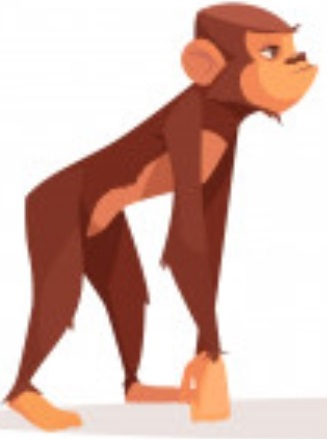
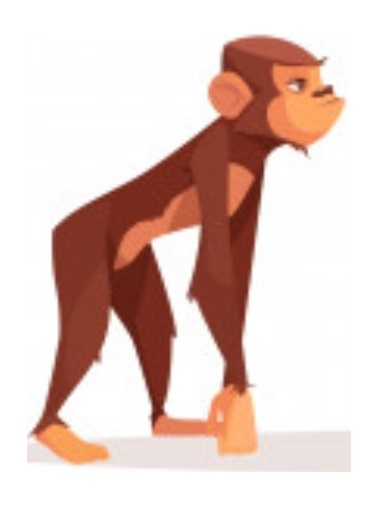
added tasks level

diff --git a/src/components/games/taskgame.js b/src/components/games/taskgame.js
@@ -43,12 +43,13 @@ export default function TaskGame(props) {
             if ('error' in response.data) {
                 console.log('onGetNewTaskUpdate error ' + response.data.error);
                 setTask('Error: ' + response.data.error);
-                setImage(url_prefix + 'error.jpg');
+                setImage(url_prefix + 'sm_error.jpg');
 
             } else if ('id' in response.data) {
-                console.log('onGetNewTaskUpdate ' + response.data.id + ', ' + response.data.level);
+                console.log('onGetNewTaskUpdate ' + response.data.id + ', ' + response.data.level + ', ' + response.data.image);
                 setTask(response.data.description);
                 setResult(response.data.result);
+                setImage(url_prefix + response.data.image);
 
                 // set answer to ? and blinking
                 setCounter(0); setFont('grey'); setAnswer('?');
@@ -57,11 +58,11 @@ export default function TaskGame(props) {
         }
 
         setLoading(false);
-
     }, [ ])
 
     const onGetNewTaskError = useCallback((error) => {
         console.log('Header.onScoresError ' + error);
+        setTask('Error: ' + error);
         setLoading(false);
     }, [ ])
 
@@ -76,15 +77,14 @@ export default function TaskGame(props) {
     useEffect(() => {
         console.log('TaskGame.useEffect -> ' + props.task.uid);
         if (props.open === true) {
-            setLoading(true);
-            getNewTask(url_prefix + 'sm_error.jpg');
+            setFloatDesk('left'); setFloatBoard('right');
+            setLoading(true); getNewTask();
         } else {
             setCounter(0); setTotal(0);
             setPassed(0); setFailed(0);
             setAnswer('?'); setResult('?');
             setFont('grey'); setAnimation('blinker 5s linear infinite');
         }
-
     }, [props.open, props.task, getNewTask]);
 
     const onAlertDialog = (status) => {
@@ -98,18 +98,21 @@ export default function TaskGame(props) {
 
     const onDigit = (number) => {
         console.log('TaskGame.onDigit ' + number);
-        if (answer === '?') {
-            setAnswer(number); setFont('black');
-            setAnimation('none');
-        } else {
-            var new_aswer = answer + number;
-            setAnswer(new_aswer);
+        // if result is ? -> some error from server and we have no task
+        if (result !== '?') {
+            if (answer === '?') {
+                setAnswer(number); setFont('black');
+                setAnimation('none');
+            } else {
+                var new_aswer = answer + number;
+                setAnswer(new_aswer);
+            }
         }
     }
 
     const onOperator = (symbol) => {
         console.log('TaskGame.onOperator ' + symbol);
-        if (symbol === 'clear' && answer !== '?') {
+        if (symbol === 'clear' && answer !== '?' && result !== '?') {
             if (answer.length === 1) {
                 setFont('grey'); setAnswer('?');
                 setAnimation('blinker 5s linear infinite');
@@ -128,9 +131,12 @@ export default function TaskGame(props) {
                     setPassed(passed + 1);
                 }
 
+                setFont('green');
+                setLoading(true);
+
                 setTimeout(() => {
                     getNewTask();
-                }, 700);
+                }, 1300);
 
             } else {
                 if (counter === 0) {
@@ -167,7 +173,7 @@ export default function TaskGame(props) {
                 <div className='taskgame_body_wrapper_left' style={{'float': float_desk}}>
                     <div className='taskgame_body_wrapper_up'>
                             <div className='taskgame_gameboard_image_wrapper'>
-                                <img src={image} alt='task image' onContextMenu={(e) => e.preventDefault()}/>
+                                <img src={image} alt='task' onContextMenu={(e) => e.preventDefault()}/>
                             </div>
                     </div>
                     <div className='taskgame_body_wrapper_down'>
@@ -188,10 +194,16 @@ export default function TaskGame(props) {
                     </div>
 
                     <div className='taskgame_body_wrapper_down' style={{alignItems: 'center'}}>
-                        <KeyBoard onDigit={onDigit} onOperator={onOperator}/>
+                        <KeyBoard onDigit={onDigit} onOperator={onOperator} plus={true} minus={true}/>
                     </div>
                 </div>
             </div>
+
+            {(props.lang !== 'ru') ? (
+                <div className='taskgame_footer_wrapper'>
+                    {taskgame[props.lang]['sorry']}
+                </div>
+            ) : (<></>)}
 
             <AlertDialog open={openAlert}
                 fullScreen={props.fullScreen}

diff --git a/src/components/translations/taskgame.js b/src/components/translations/taskgame.js
@@ -8,6 +8,7 @@ export const taskgame = {
         'answer': 'answer',
         'exit': 'exit',
         'help': 'help',
+        'sorry': 'we are sorry, we did not have enough resources and time to translate all tasks on your language. please, give us a chance to do it later',
     },
     // Russian
     'ru': {
@@ -17,6 +18,7 @@ export const taskgame = {
         'answer': 'проверить',
         'exit': 'ВЫХОД',
         'help': 'ПОМОЩЬ',
+        'sorry': 'нам очень жаль',
     },
     // Dutch
     'nl' : {
@@ -24,6 +26,9 @@ export const taskgame = {
         'yes': 'Exit',
         'no': 'Let Me Stay and Continue',
         'answer': 'answer',
+        'exit': 'exit',
+        'help': 'help',
+        'sorry': 'het spijt ons, we hadden niet genoeg middelen en tijd om alle taken in uw taal te vertalen. geef ons alstublieft de kans om het later te doen',
     },
     // French
     'fr' : {
@@ -31,6 +36,9 @@ export const taskgame = {
         'yes': 'Exit',
         'no': 'Let Me Stay and Continue',
         'answer': 'answer',
+        'exit': 'exit',
+        'help': 'help',
+        'sorry': 'nous sommes désolés, nous n\'avions pas assez de ressources et de temps pour traduire toutes les tâches dans votre langue. s\'il vous plaît, donnez-nous une chance de le faire plus tard',
     },
     // German
     'de' : {
@@ -38,6 +46,9 @@ export const taskgame = {
         'yes': 'Exit',
         'no': 'Let Me Stay and Continue',
         'answer': 'answer',
+        'exit': 'exit',
+        'help': 'help',
+        'sorry': 'Es tut uns leid, wir hatten nicht genügend Ressourcen und Zeit, um alle Aufgaben in Ihrer Sprache zu übersetzen. Bitte geben Sie uns die Möglichkeit, dies später zu tun',
     },
     // Spanish
     'es' : {
@@ -45,6 +56,9 @@ export const taskgame = {
         'yes': 'Exit',
         'no': 'Let Me Stay and Continue',
         'answer': 'answer',
+        'exit': 'exit',
+        'help': 'help',
+        'sorry': 'lo sentimos, no teníamos suficientes recursos y tiempo para traducir todas las tareas en su idioma. por favor, danos la oportunidad de hacerlo más tarde',
     },
     // Italian
     'it' : {
@@ -52,5 +66,8 @@ export const taskgame = {
         'yes': 'Exit',
         'no': 'Let Me Stay and Continue',
         'answer': 'answer',
+        'exit': 'exit',
+        'help': 'help',
+        'sorry': 'Siamo spiacenti, non avevamo risorse e tempo sufficienti per tradurre tutte le attività nella tua lingua. per favore, dacci la possibilità di farlo più tardi',
     },
 };

diff --git a/src/components/games/taskgame.css b/src/components/games/taskgame.css
@@ -1,11 +1,39 @@
 .taskgame_header_wrapper {
-    height: 9%;
+    height: 7%;
     width: 100%;
 
     font-size: 2.00rem;
     font-family: 'Grinched';
     text-shadow: 2px 2px black;
 }
+.taskgame_body_wrapper {
+    height: 89%;
+    width: 100%;
+}
+.taskgame_footer_wrapper {
+    height: 3%;
+    width: 98%;
+
+    margin-left: 1%;
+    margin-right: 1%;
+    margin-bottom: 1%;
+
+    display: flex;
+    align-items: center;
+    justify-content: center;
+
+    color: #333333;
+    background-color: #ffcccc;
+    text-align: center;
+    user-select: none;
+    font-size: 13px;
+    font-weight: bold;
+    font-family: 'Roboto', Helvetica, Arial, sans-serif;
+
+    border-radius: 5px;
+    border: 3px solid #ff1a1a;
+}
+
 .taskgame_header_wrapper_left {
     height: 100%;
     width: 64%;
@@ -29,10 +57,6 @@
     justify-content: space-around;
 }
 
-.taskgame_body_wrapper {
-    height: 100%;
-    width: 100%;
-}
 .taskgame_body_wrapper_left {
     height: 100%;
     width: 64%;
@@ -61,19 +85,21 @@
     justify-content: center;
 }
 .taskgame_gameboard_image_wrapper {
-    height: 90%;
+    height: 240px;
     width: 100%;
 
     display: flex;
     align-items: center;
     justify-content: center;
 
+    overflow: hidden;
     border-radius: 15px;
     box-shadow: 1px 1px 3px 0px black;
 }
 .taskgame_gameboard_image_wrapper img {
     height: 95%;
     width: auto;
+    border-radius: 15px;
 }
 .taskgame_line_gameboard {
     height: 90%;
@@ -113,6 +139,8 @@
     font-family: 'Grinched';
     font-size: 2.0rem;
 
+    transition: all .9s;
+
     border-radius: 5px;
     box-shadow: 1px 1px 3px 0px black;
 }
@@ -144,9 +172,9 @@
     font-size: 2.0rem;
     text-align: center;
 
-    border-radius: 5px;
-    box-shadow: 1px 1px 3px 0px grey;
     transition: all .7s;
+    border-radius: 5px;
+    box-shadow: 1px 1px 3px 0px black;
 }
 .taskgame_answer_btn:active {
     background-color: rgba(0, 0, 0, 0.8);

diff --git a/src/components/keyboard/linenumbersboard.js b/src/components/keyboard/linenumbersboard.js
@@ -4,28 +4,24 @@ import './linenumbersboard.css';
 export default function LineNumbersBoard(props) {
     return (
         <div className='linekeyboard'>
-            <button onClick={props.onDigit}>0</button>
-            <button onClick={props.onDigit}>1</button>
-            <button onClick={props.onDigit}>2</button>
-            <button onClick={props.onDigit}>3</button>
-            <button onClick={props.onDigit}>4</button>
-            <button onClick={props.onDigit}>5</button>
-            <button onClick={props.onDigit}>6</button>
-            <button onClick={props.onDigit}>7</button>
-            <button onClick={props.onDigit}>8</button>
-            <button onClick={props.onDigit}>9</button>
+            <button onClick={() => props.onDigit('0')}>0</button>
+            <button onClick={() => props.onDigit('1')}>1</button>
+            <button onClick={() => props.onDigit('2')}>2</button>
+            <button onClick={() => props.onDigit('3')}>3</button>
+            <button onClick={() => props.onDigit('4')}>4</button>
+            <button onClick={() => props.onDigit('5')}>5</button>
+            <button onClick={() => props.onDigit('6')}>6</button>
+            <button onClick={() => props.onDigit('7')}>7</button>
+            <button onClick={() => props.onDigit('8')}>8</button>
+            <button onClick={() => props.onDigit('9')}>9</button>
 
             {(props.floats) ? (
-                <button onClick={props.onOperator}>.</button>
-            ) : (
-                <> </>
-            )}
+                <button onClick={() => props.onOperator('.')}>.</button>
+            ) : ( <> </> )}
 
             {(props.minus) ? (
-                <button onClick={props.onOperator}>-</button>
-            ) : (
-                <> </>
-            )}
+                <button onClick={() => props.onOperator('-')}>-</button>
+            ) : ( <> </> )}
         </div>
     );
 }

diff --git a/src/components/keyboard/operatorboard.js b/src/components/keyboard/operatorboard.js
@@ -4,15 +4,15 @@ import './operatorboard.css';
 export default function OperatorBoard(props) {
     return (
         <div className="operatorboard">
-            {props.more ? (<button onClick={props.onOperator}>&#62;</button>) : (null)}
-            {props.equals ? (<button onClick={props.onOperator}>=</button>) : (null)}
-            {props.less ? (<button onClick={props.onOperator}>&#60;</button>) : (null)}
+            {props.more ? (<button onClick={() => props.onOperator('>')}>&#62;</button>) : (null)}
+            {props.equals ? (<button onClick={() => props.onOperator('=')}>=</button>) : (null)}
+            {props.less ? (<button onClick={() => props.onOperator('<')}>&#60;</button>) : (null)}
 
-            {props.plus ? (<button onClick={props.onOperator}>&#43;</button>) : (null)}
-            {props.minus ? (<button onClick={props.onOperator}>&#45;</button>) : (null)}
+            {props.plus ? (<button onClick={() => props.onOperator('+')}>&#43;</button>) : (null)}
+            {props.minus ? (<button onClick={() => props.onOperator('-')}>&#45;</button>) : (null)}
 
-            {props.mul ? (<button onClick={props.onOperator}>&#60;</button>) : (null)}
-            {props.div ? (<button onClick={props.onOperator}>&#8725;</button>) : (null)}
+            {props.mul ? (<button onClick={() => props.onOperator('x')}>&#60;</button>) : (null)}
+            {props.div ? (<button onClick={() => props.onOperator('/')}>&#8725;</button>) : (null)}
         </div>
     );
 }

diff --git a/src/components/halpers/programms.js b/src/components/halpers/programms.js
@@ -154,7 +154,7 @@ export const black_games = [
 
 export const task_games = [
     {id: 1, uid: 'task_1', time: 0, logo: task1, type: 'task', color: '#9900ff', level: 'beginner', locked: false},
-    {id: 2, uid: 'task_2', time: 0, logo: task2, type: 'task', color: '#0000cc', level: 'elementary', locked: true},
+    {id: 2, uid: 'task_2', time: 0, logo: task2, type: 'task', color: '#0000cc', level: 'elementary', locked: false},
     {id: 3, uid: 'task_3', time: 0, logo: task3, type: 'task', color: '#336699', level: 'intermediate', locked: true},
     {id: 4, uid: 'task_4', time: 0, logo: task4, type: 'task', color: '#00b3b3', level: 'upper intermediate', locked: true},
     {id: 5, uid: 'task_5', time: 0, logo: task5, type: 'task', color: '#808000', level: 'pre-advanced', locked: true},

diff --git a/src/components/keyboard/keyboard.js b/src/components/keyboard/keyboard.js
@@ -19,6 +19,15 @@ export default function KeyBoard(props) {
             <button id='dot' onClick={() => props.onOperator('.')}>.</button>
             <button id='zero' onClick={() => props.onDigit('0')}>0</button>
             <button id='clear' onClick={() => props.onOperator('clear')}>&#60;</button>
+
+            {(props.plus) ? (
+                <button id='plus' onClick={() => props.onOperator('+')}>+</button>
+            ) : ( <></> )}
+
+            {(props.minus) ? (
+                <button id='minus' onClick={() => props.onOperator('-')}>-</button>
+            ) : ( <></> )}
+
         </div>
     );
 }

diff --git a/src/components/keyboard/keyboard.css b/src/components/keyboard/keyboard.css
@@ -40,6 +40,8 @@
 #more,
 #equals,
 #less,
+#plus,
+#minus,
 #divide,
 #multiply,
 #subtract,
@@ -50,6 +52,8 @@
 #dot:active,
 #clear:active,
 #equals:active,
+#plus:active,
+#minus:active,
 #divide:active,
 #multiply:active,
 #subtract:active,
@@ -61,6 +65,8 @@
 #dot:hover,
 #clear:hover,
 #equals:hover,
+#plus:hover,
+#minus:hover,
 #divide:hover,
 #multiply:hover,
 #subtract:hover,
